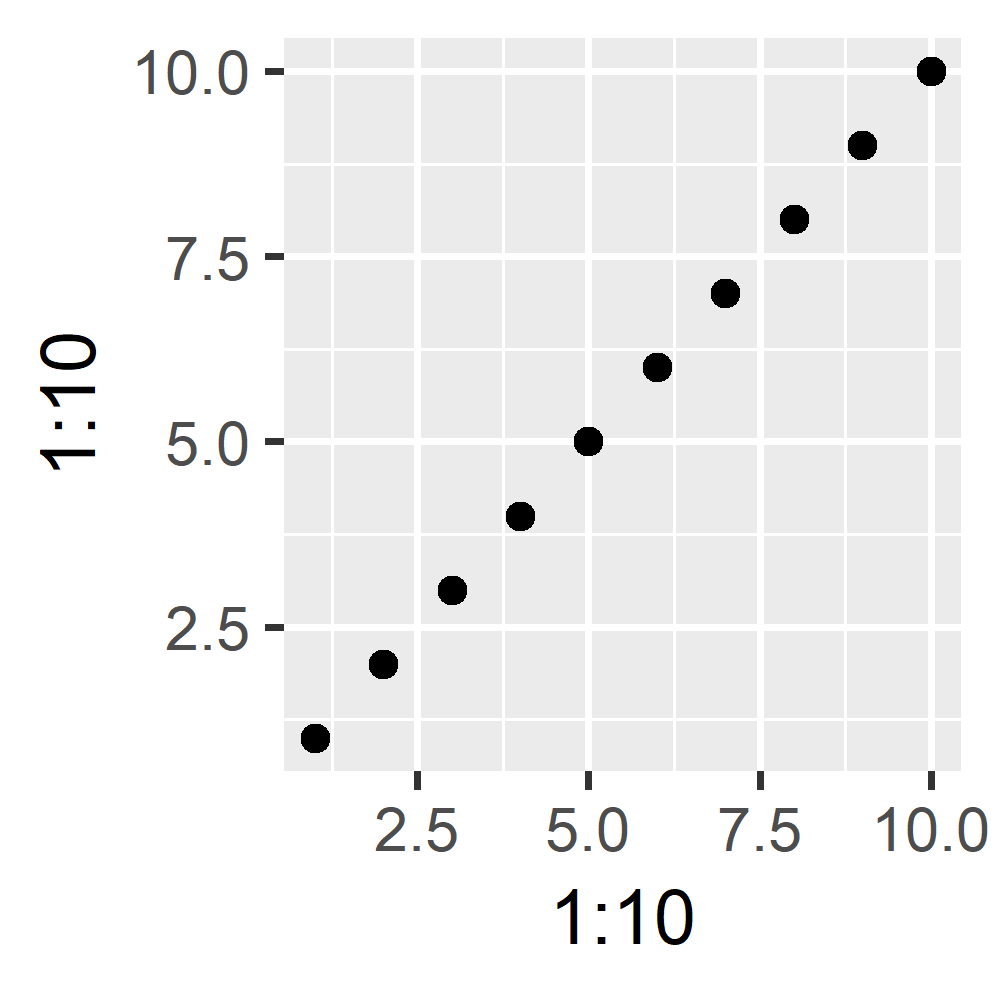
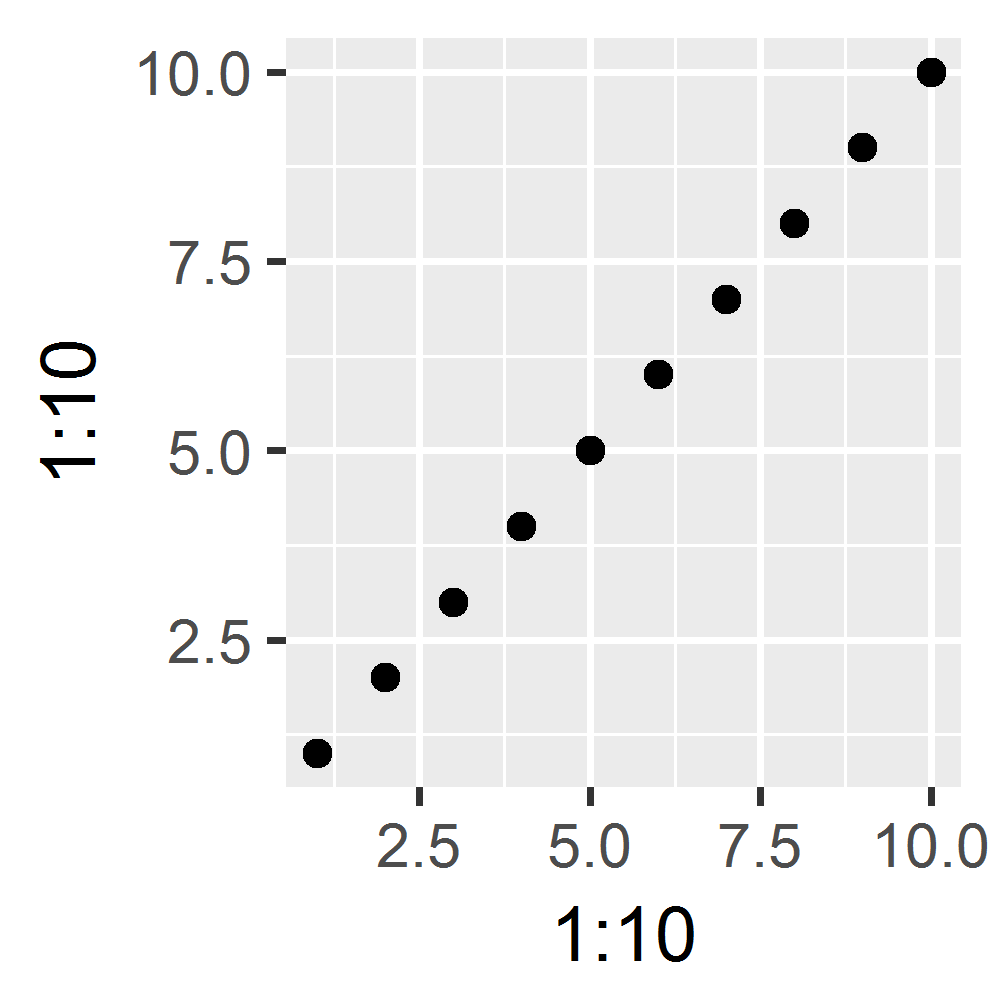
Move from knitr to direct LaTeX build

diff --git a/writeups/AAAI/build/MaurerBennetteAAAI.tex b/writeups/AAAI/build/MaurerBennetteAAAI.tex
@@ -36,27 +36,10 @@
 \DeclareMathOperator*{\argmin}{argmin}
 \DeclareMathOperator*{\argmax}{argmax}
 
-<<setup,echo=F,include=F,eval=T>>=
-# options(scipen=5, digits=5)
-
-# libraries
-library(iqbin)
-library(FNN)
-library(tidyverse)
-library(stringr)
-library(randomForest)
-library(RANN)
-library(mvtnorm)
-library(gridExtra)
-library(xtable)
-
-# source in functions
-@
 \newcommand{\km}[1]{{\color{red} #1}} %red comments: Karsten
 \newcommand{\wb}[1]{{\color{blue} #1}} %blue comments: Walter
 
 \begin{document}
-\SweaveOpts{concordance=TRUE}
 % The file aaai.sty is the style file for AAAI Press 
 % proceedings, working notes, and technical reports.
 %
@@ -77,7 +60,7 @@ Techniques such as active learning \citep{Settles2010} and domain adaptation \ci
 
 Intuitive methods can be used to evaluate the performance of a model in the absence of labeled data.  Given a labeling budget one could sample instances following an experimental design, sample instances with the lowest classifier confidence, or sample instances identified as informative to the classifier through active learning strategies.  These methods could provide a sense of a model's performance but will potentially miss high confidence mistakes, referred to as \textit{unknown unknowns}.     
 
-Unknown unknowns can be thought of as blind spots to a classification model, and can be caused by dataset bias during training, domain shift during use, lack of model expressibility, and other causes of poor model fit.  From the viewpoint of a rational actor, unknown unknowns represent costly mistakes because minimal risk mitigation strategies will have been deployed for these high confidence predictions.  The discovery of unknown unknowns may allow new mitigation strategies to be formulated \citep{Nushi2016a}.  Additionally, as enumerated in \citep{Bansal2018}, finding unknown unknowns is valuable to understand classifier limitations and prevent attacks (stole this hard) \km{what do you mean by attacks?}. 
+Unknown unknowns can be thought of as blind spots to a classification model, and can be caused by dataset bias during training, domain shift during use, lack of model expressibility, and other causes of poor model fit.  From the viewpoint of a rational actor, unknown unknowns represent costly mistakes because minimal risk mitigation strategies will have been deployed for these high confidence predictions.  The discovery of unknown unknowns may allow new mitigation strategies to be formulated \citep{Nushi2016a}.  Additionally, as enumerated in \citep{Bansal2018}, finding unknown unknowns is valuable to understand classifier limitations and prevent attacks (stole this hard) what do you mean by attacks?. 
 
 \citet{Attenberg2015} gamified the search for unknown unknowns and relied on human oracles to discover misclassified instances. A utility-based search algorithm for discovering unknown unknowns was then proposed by \citet{Lakkaraju2016} and expanded upon by \citet{Bansal2018}. \citet{Lakkaraju2016} uses a utility model that simply counts the number of discovered unknown unknowns and searches using multi-armed bandits. \citet{Bansal2018} argued that this unit utility model motivates the discovery of very similar unknown unknowns. To fix this problem they proposed an adaptive coverage-based utility model that attempts to encourage the discovery of unknown unknowns throughout the feature space, favoring high confidence regions. They then search for unknown unknowns via a greedy algorithm to maximize utility. 
 
@@ -92,14 +75,10 @@ What we find wrong...
 
 \section{Problem Formulation}
 
-<<chunkdemo,echo=F, eval=TRUE, include=TRUE>>=
-ggplot() + geom_point(aes(x=1:10,y=1:10))
-ggsave("../experimentsAndPlots/demoplot.png",dpi=500,height=2,width=2,units="in")
-@
 
 \begin{figure}[hbtp]
 \centering
-  \includegraphics[width=.49\textwidth]{../experimentsAndPlots/demoplot.png}
+  \includegraphics[width=.4\textwidth]{../experimentsAndPlots/demoplot.png}
   \caption{Demo Plot Built in Code Chunk}
   \label{fig:demo}
 \end{figure}
@@ -144,12 +123,9 @@ $r\left(c_x\right) = \log\left(\frac{1}{1-c_x}\right)$
 
 
 \newpage
-\bibliographystyle{aaai.bst}
+\bibliographystyle{aaai}
 
 \bibliography{library}
-
-
-
 
 
 
